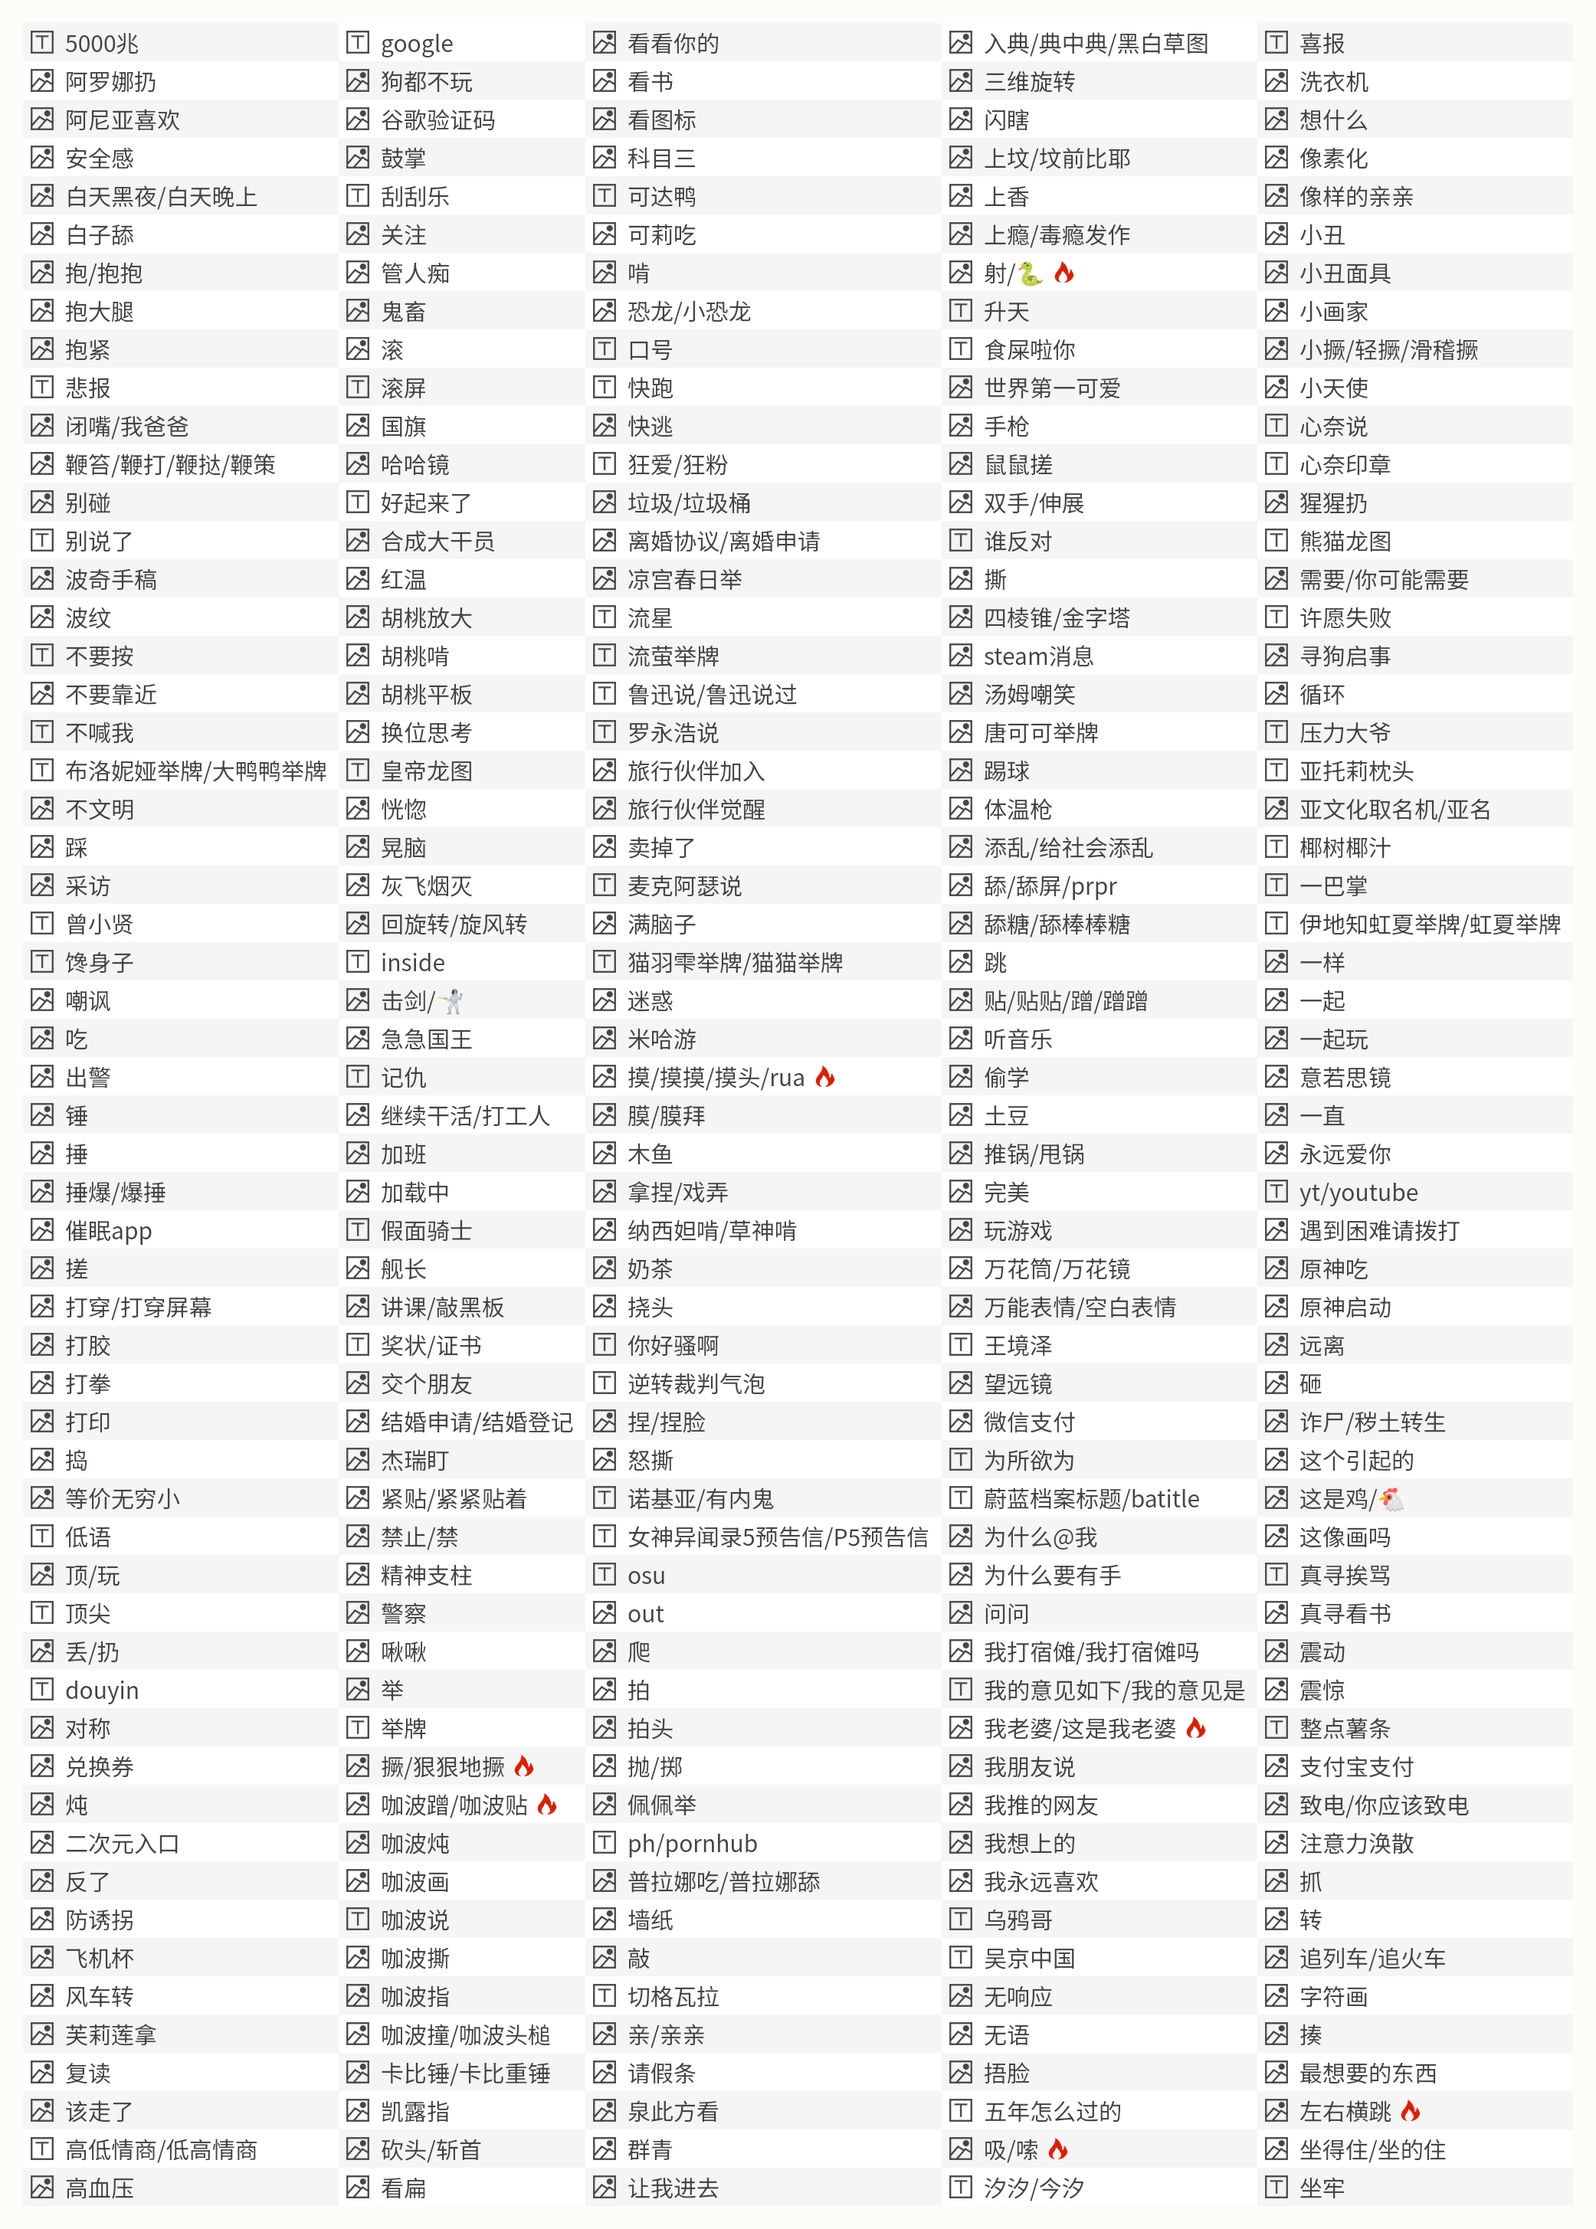
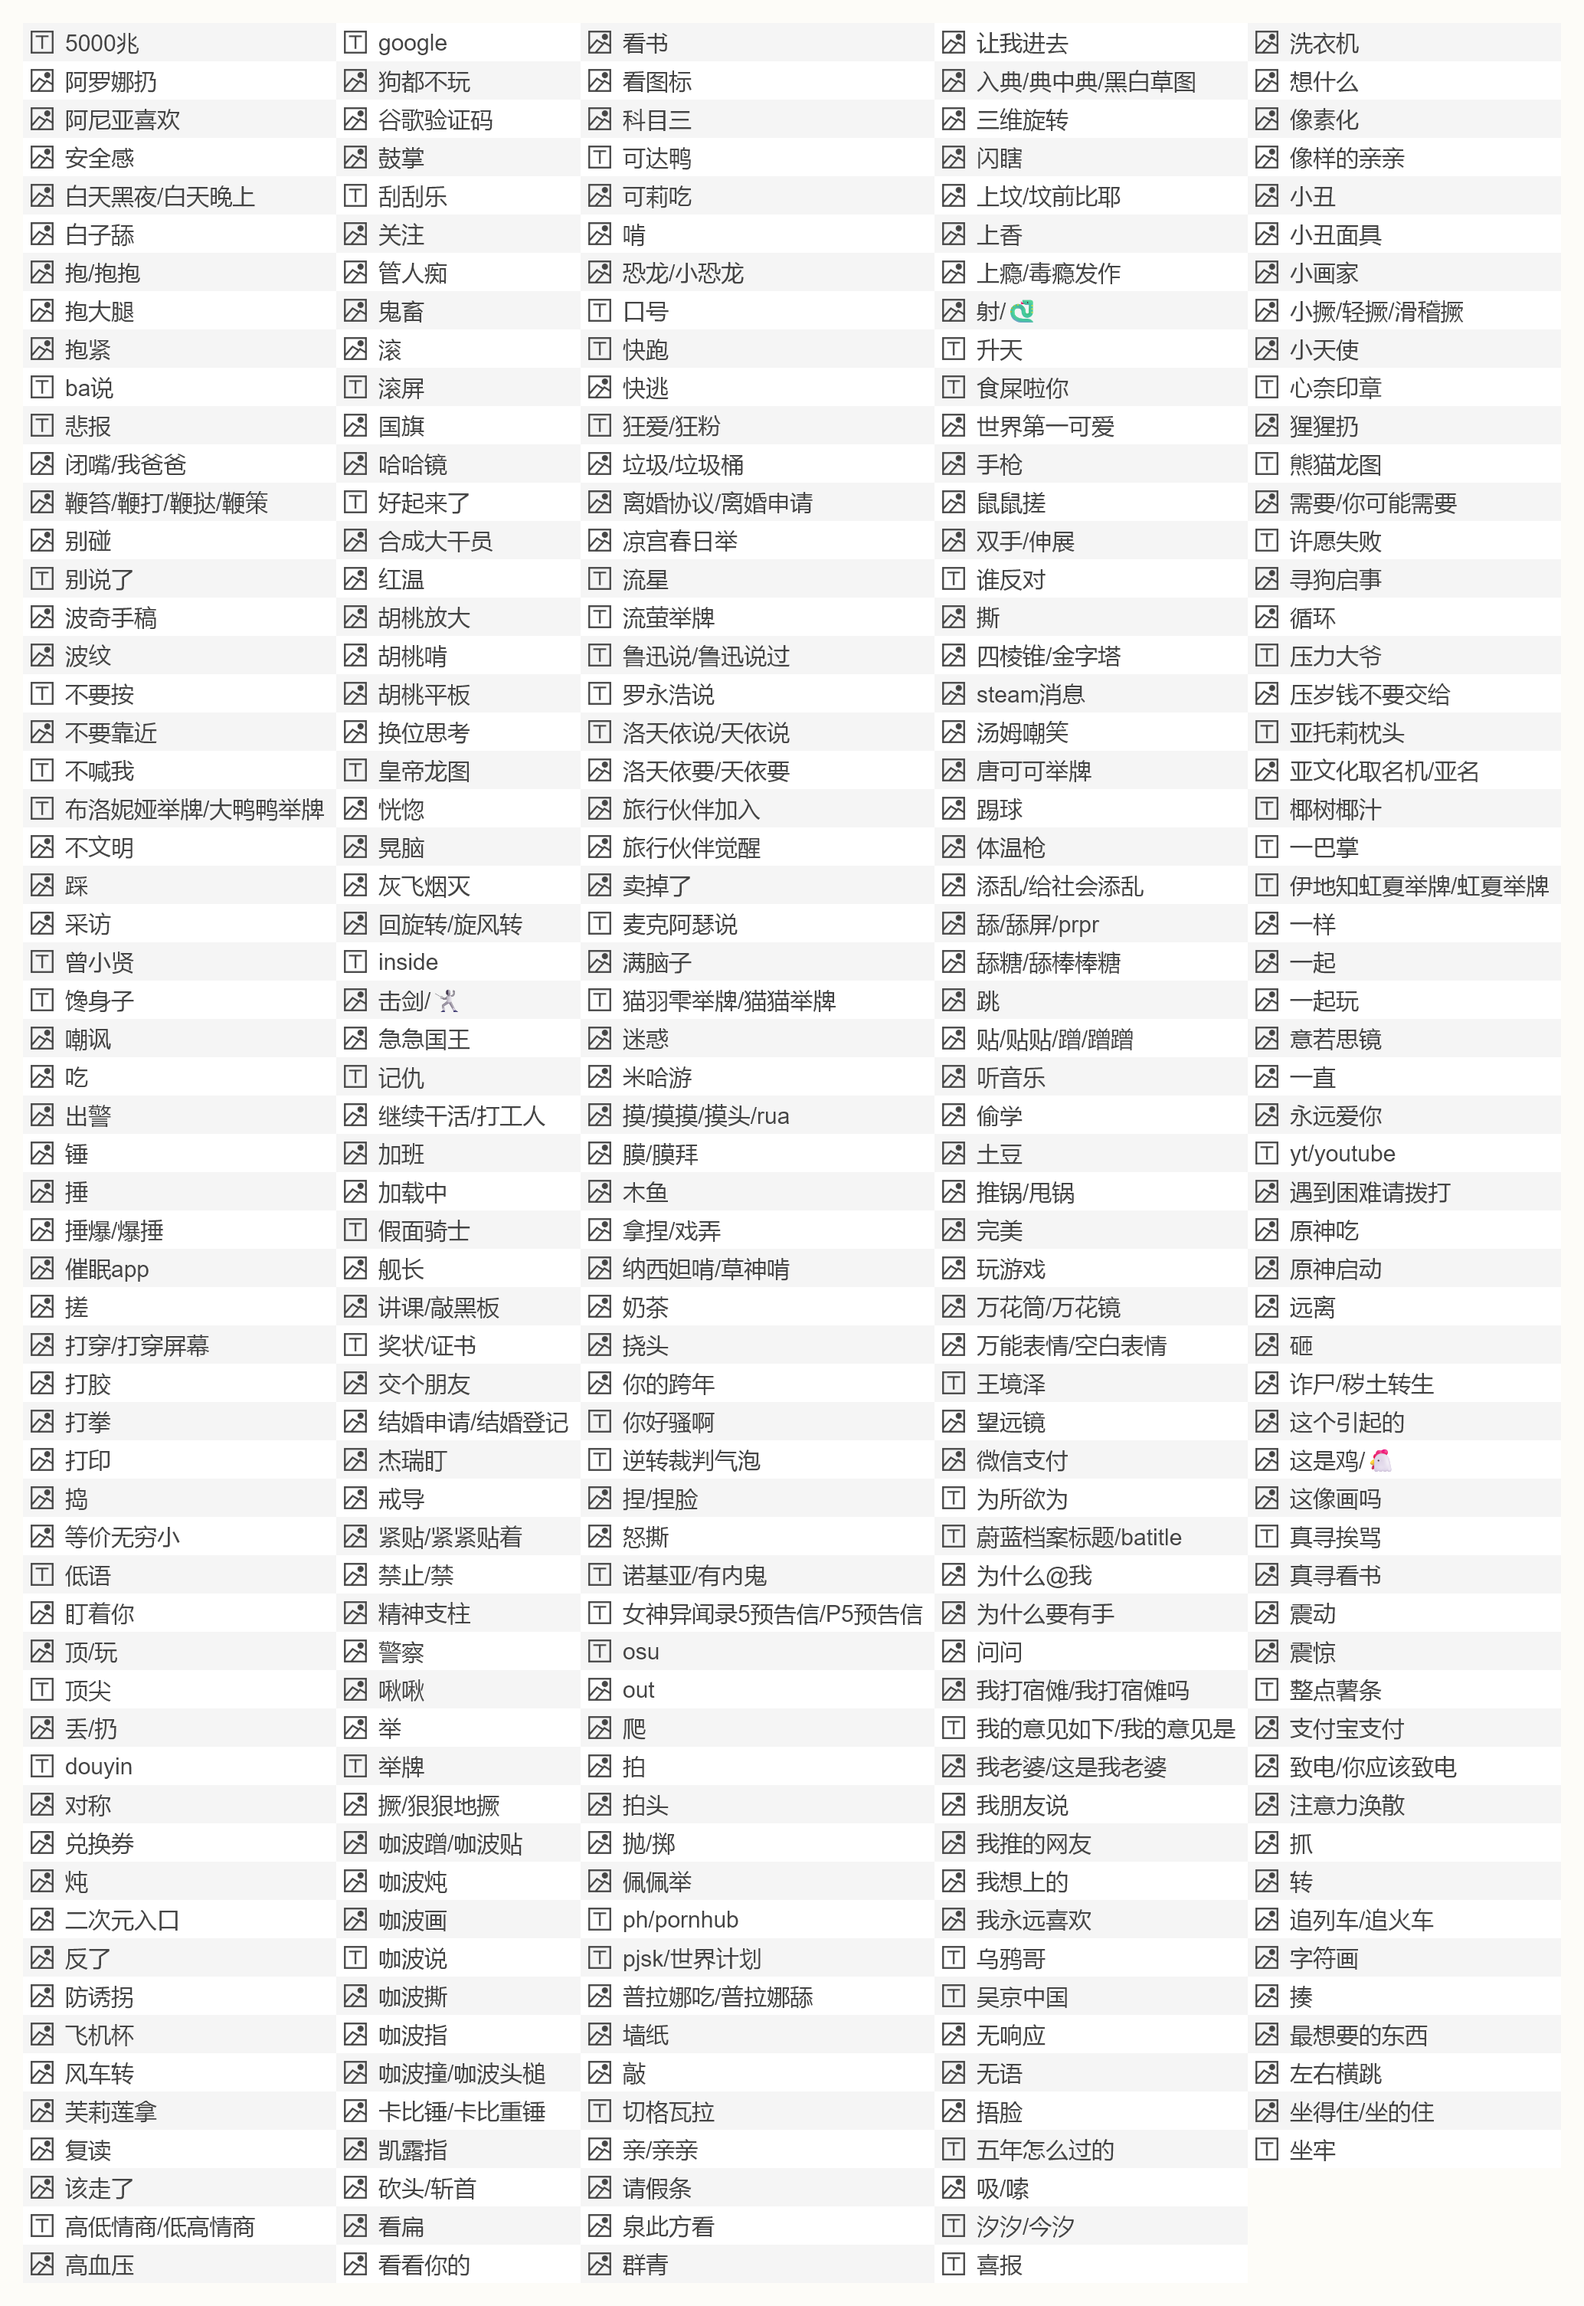
更正表情包列表

Changed region(s): [[0.3714, 0.0, 0.9594, 0.9897], [0.0, 0.0, 0.3404, 0.9897]]

diff --git a/hifumi-bot/index.html b/hifumi-bot/index.html
@@ -91,7 +91,7 @@ var _hmt = _hmt || [];
 </div>
 <div>
     <h4><a style="color:#000000;" href="doc1/#反馈入口">-> 反馈入口qwq <-</a></h4>
-    <h3><font color="red">2025.04.09 更新AI绘画功能🖼</font></h3>
+    <h3><font color="red">2025.04.15 更新AI绘画功能🖼</font></h3>
     <font color="black"><h4>最后编辑时间：2025.04.09</h4>
     <font color="#0000CD"><strong>Hifumi-Bot由 <a style="color:#FFC0CB;" href="https://www.rainyun.com/WR114514_"><img src="https://www.rainyun.com/img/logo.d193755d.png" width="70"/></a> 提供云服务支持</strong</font>
 </div>

diff --git a/hifumi-bot/doc1/common/meme_generator.html b/hifumi-bot/doc1/common/meme_generator.html
@@ -221,7 +221,7 @@ var _hmt = _hmt || [];
 <h2 id="%E8%A1%A8%E6%83%85%E5%8C%85%E5%85%B3%E9%94%AE%E8%AF%8D%E5%88%97%E8%A1%A8">表情包关键词列表</h2>
 <p>有文字表情包和图片表情包哦~</p>
 
-<pre class="language-none"><code class="language-none">/表情包列表
+<pre class="language-none"><code class="language-none">/表情列表
 </code></pre>
 <p><img src="meme/re/%E8%A1%A8%E6%83%85%E5%8C%85%E5%88%97%E8%A1%A8.png" alt="表情包列表" /></p>
 </blockquote>
